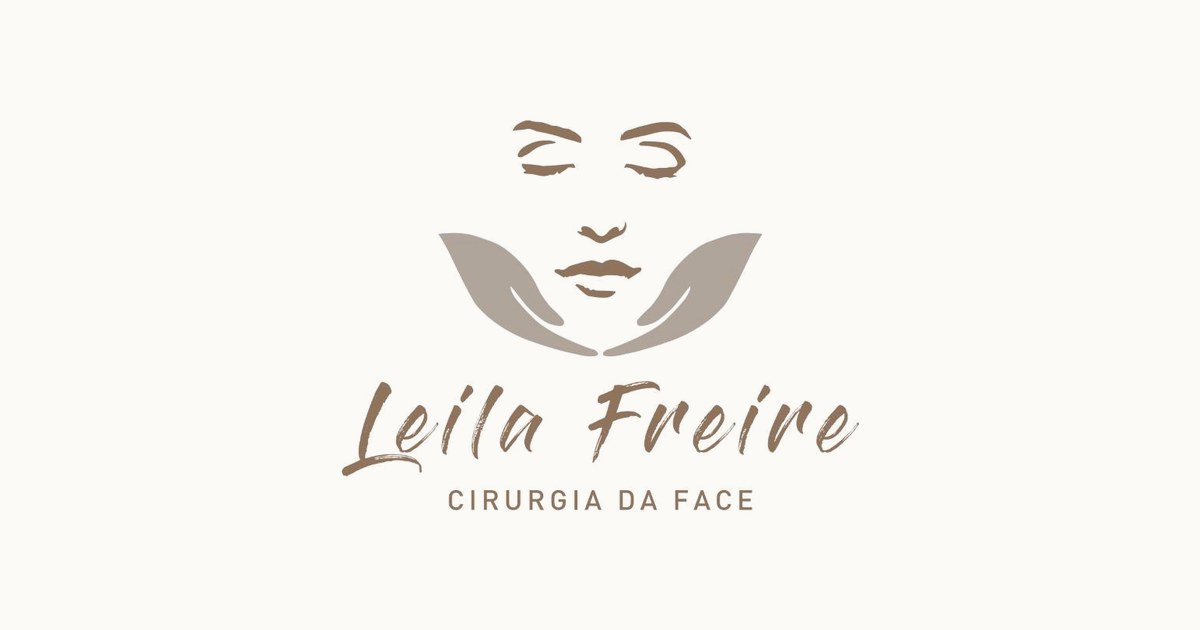
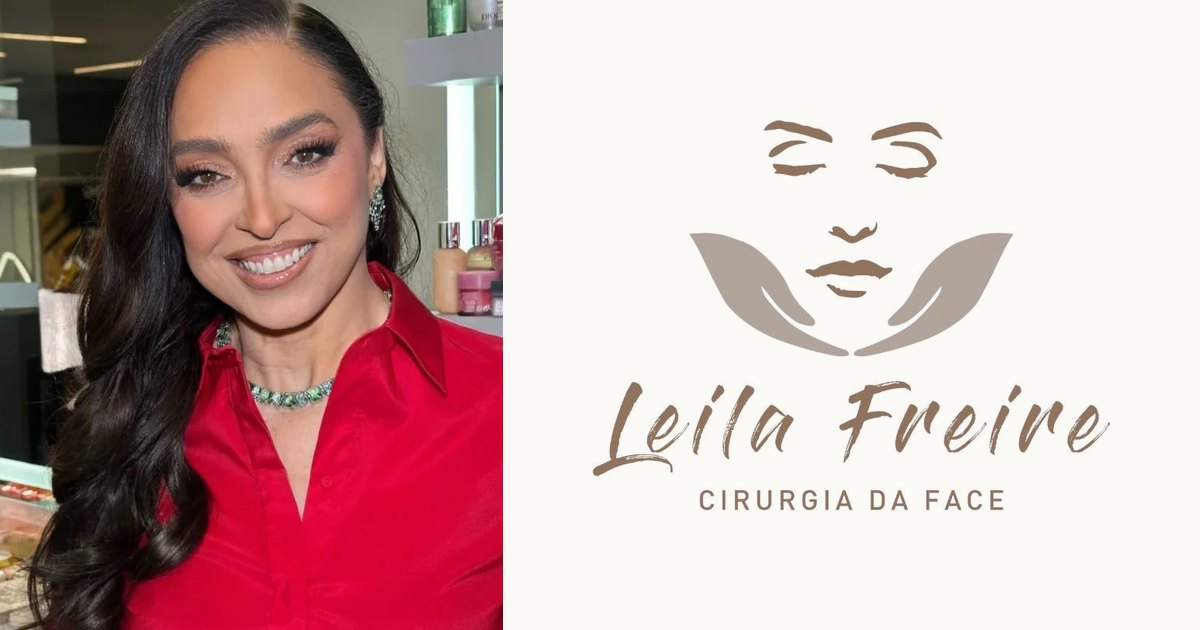
Topo da LP com foco na Dra. Leila
Foto da Dra. em destaque (grande também no celular), nome como título
principal e as principais referências já no primeiro bloco. A imagem de
compartilhamento passa a usar a foto e o logo.

Claude-Session: https://claude.ai/code/session_01SHYpcMwsFZjF974mUZLx7n

diff --git a/styles.css b/styles.css
@@ -82,15 +82,20 @@ p{margin:0 0 16px;color:var(--ink-soft);}
 /* Hero */
 .hero{border-bottom:1px solid var(--line);}
 .hero-inner{
-  display:grid;grid-template-columns:1.15fr .85fr;gap:64px;align-items:end;
-  padding:72px 24px 64px;
+  display:grid;grid-template-columns:.9fr 1.1fr;gap:64px;align-items:center;
+  padding:56px 24px 64px;
 }
 .kicker{font-size:15px;color:var(--accent);font-weight:600;margin-bottom:18px;}
-.hero-lead{font-size:19px;max-width:560px;color:var(--ink-soft);}
+.hero-copy h1{font-size:clamp(40px,5.2vw,64px);margin-bottom:10px;}
+.hero-sub{font-family:var(--serif);font-style:italic;font-size:21px;line-height:1.45;color:var(--ink-soft);max-width:520px;margin-bottom:26px;}
+.hero-refs{list-style:none;margin:0;padding:0;border-top:1px solid var(--line);max-width:540px;}
+.hero-refs li{padding:10px 0 10px 22px;border-bottom:1px solid var(--line);position:relative;font-size:16px;color:var(--ink-soft);line-height:1.45;}
+.hero-refs li::before{content:"";position:absolute;left:2px;top:18px;width:8px;height:8px;border-radius:50%;background:var(--brand);}
+.hero-refs strong{color:var(--ink);font-weight:600;}
 .hero-actions{display:flex;align-items:center;gap:28px;flex-wrap:wrap;margin:30px 0 26px;}
 .hero-reg{font-size:14px;color:var(--ink-mute);margin:0;}
 .hero-media{margin:0;}
-.hero-media figcaption{font-size:14px;color:var(--ink-mute);margin-top:10px;}
+.hero .photo-slot{border-radius:2px;box-shadow:18px 18px 0 var(--paper-2);}
 
 /* Foto com fallback (monograma) enquanto a imagem real não existir */
 .photo-slot{position:relative;aspect-ratio:4/5;overflow:hidden;background:#ece6df;}
@@ -294,8 +299,8 @@ p{margin:0 0 16px;color:var(--ink-soft);}
 /* Responsivo */
 @media(max-width:900px){
   .header-nav{display:none;}
-  .hero-inner{grid-template-columns:1fr;gap:36px;padding-top:40px;}
-  .hero-media{max-width:340px;order:-1;}
+  .hero-inner{grid-template-columns:1fr;gap:32px;padding-top:32px;}
+  .hero-media{max-width:440px;}
   .about-grid,.consult-grid,.faq-grid,.location-grid{grid-template-columns:1fr;gap:32px;}
   .about-media{position:static;max-width:340px;order:-1;}
   .steps-list{grid-template-columns:1fr 1fr;}
@@ -309,10 +314,12 @@ p{margin:0 0 16px;color:var(--ink-soft);}
   .header-cta{padding:9px 14px;font-size:14px;}
 
   .hero-inner{padding:24px 18px 48px;}
-  .hero-media{max-width:none;display:grid;grid-template-columns:120px 1fr;gap:14px;align-items:end;}
-  .hero-media figcaption{margin:0;}
-  h1{font-size:32px;}
-  .hero-lead{font-size:17px;}
+  .hero-inner{padding-top:0;}
+  .hero-media{max-width:none;margin:0 -18px;}
+  .hero .photo-slot{aspect-ratio:4/4.4;box-shadow:none;border-radius:0;}
+  .hero-copy h1{font-size:40px;}
+  .hero-sub{font-size:18px;}
+  .hero-refs li{font-size:15px;}
   .hero-actions{gap:18px;}
   .hero-actions .btn{width:100%;}
 

diff --git a/index.html b/index.html
@@ -216,31 +216,32 @@
 <!-- ===================== HERO ===================== -->
 <section class="hero" id="topo">
   <div class="container hero-inner">
-    <div class="hero-copy">
-      <p class="kicker">Otorrinolaringologia &middot; Cirurgia plástica da face</p>
-      <h1>Rinoplastia e cirurgia da face em São Paulo</h1>
-      <p class="hero-lead">
-        A Dra. Leila Freire tem residência e fellowship pela USP, doutorado
-        pela FAMERP, pós-doutorado pela Santa Casa de São Paulo e o Board
-        Latino-americano em Cirurgia Plástica da Face. Atende no consultório
-        em Pinheiros e também por consulta online.
-      </p>
-      <div class="hero-actions">
-        <a href="#qualificacao" id="cta-hero-scroll" class="btn btn-dark">Agendar consulta</a>
-        <a href="#consulta" class="text-link">Como é a consulta</a>
-      </div>
-      <p class="hero-reg">CRM-SP 105717 &middot; RQE 35239</p>
-    </div>
     <figure class="hero-media">
-      <!-- Foto da Dra.: salvar em assets/dra-leila.webp (retrato vertical 4:5).
-           Enquanto não existir, aparece o desenho do logo no lugar. -->
       <div class="photo-slot">
-        <img src="assets/dra-leila.webp" alt="Dra. Leila Freire" width="480" height="600" fetchpriority="high"
+        <img src="assets/dra-leila.webp" alt="Dra. Leila Freire, de camisa vermelha, sorrindo" width="618" height="774" fetchpriority="high"
              onerror="this.parentNode.classList.add('is-empty');this.remove();">
         <img class="photo-fallback" src="assets/logo-rosto.webp" alt="" aria-hidden="true">
       </div>
-      <figcaption>Profa. Dra. Leila Freire</figcaption>
     </figure>
+    <div class="hero-copy">
+      <p class="kicker">Rinoplastia e cirurgia da face &middot; Pinheiros, SP</p>
+      <h1>Dra. Leila Freire</h1>
+      <p class="hero-sub">Otorrinolaringologista dedicada à rinoplastia e à cirurgia da face, professora e pesquisadora.</p>
+
+      <ul class="hero-refs">
+        <li><strong>Board Latino-americano</strong> em Cirurgia Plástica da Face</li>
+        <li><strong>Pós-doutorado</strong> pela Santa Casa de São Paulo</li>
+        <li><strong>Doutorado</strong> pela FAMERP, com técnica própria para a base do nariz</li>
+        <li><strong>Fellowship e residência</strong> pela USP</li>
+        <li><strong>Palestrante</strong> em congressos nacionais e internacionais</li>
+      </ul>
+
+      <div class="hero-actions">
+        <a href="#qualificacao" id="cta-hero-scroll" class="btn btn-dark">Agendar consulta com a Dra.</a>
+        <a href="#consulta" class="text-link">Como é a consulta</a>
+      </div>
+      <p class="hero-reg">Consulta presencial em Pinheiros ou online &middot; CRM-SP 105717 &middot; RQE 35239</p>
+    </div>
   </div>
 </section>
 

diff --git a/README.md b/README.md
@@ -16,7 +16,8 @@ worker/           Cloudflare Worker da API de Conversões (CAPI)
 
 ## Seções (ordem)
 
-1. Header fixo (com âncoras no desktop) · 2. Hero com foto e CRM/RQE
+1. Header fixo (com âncoras no desktop) · 2. Hero com a foto da Dra., nome como
+   título principal e as principais referências (Board, pós-doc, doutorado, USP, congressos)
 3. Sobre + currículo completo (Board, pós-doc, doutorado, fellowship, título, residência, congressos)
 4. **Como é a consulta** (ficha: duração, formato, o que é feito, valor, depois)
 5. Passo a passo + links do Instagram/YouTube · 6. Perguntas frequentes
@@ -86,8 +87,9 @@ enquanto o worker não existir, o envio falha em silêncio.
 
 ## Pendências antes de ir ao ar
 
-- [ ] **Fotos da Dra.**: `assets/dra-leila.webp` (hero, retrato 4:5) e
-      `assets/dra-leila-sobre.webp` (seção Sobre). Sem elas aparece o desenho do logo.
+- [x] Foto do topo: `assets/dra-leila.webp` (também usada no `og-image.jpg`).
+- [ ] Segunda foto (opcional), para a seção Sobre: `assets/dra-leila-sobre.webp`.
+      Sem ela aparece o desenho do logo.
 - [ ] **Clarity** (`window.TRACKING.clarityId` no `index.html`), se for usar.
 - [ ] **Avaliações do Google**: seção pronta e comentada no `index.html`;
       só ativar com nota, quantidade e link reais.
